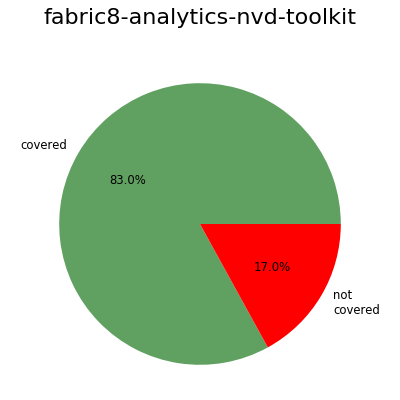
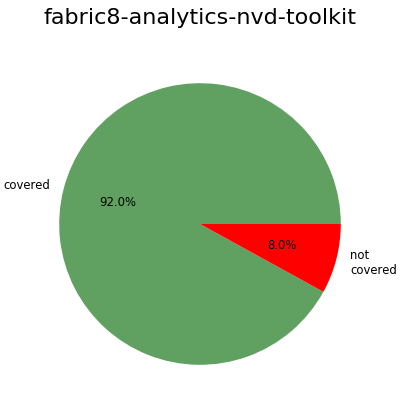
Code coverage report for the current week

diff --git a/dashboard/coverage.html b/dashboard/coverage.html
@@ -29,7 +29,7 @@
                     <tr>
                         <td style="width:36ex"><a href="https://github.com/fabric8-analytics/fabric8-analytics-common">fabric8-analytics-common</a><br />&nbsp;</td>
                         <td class="numeric" style="width:7ex"><a href="repository_fabric8-analytics-common.html">98</a><br />&nbsp;</td>
-                        <td class="numeric" style="width:7ex">11695<br />&nbsp;</td>
+                        <td class="numeric" style="width:7ex">11804<br />&nbsp;</td>
                             <td style="width:7ex">&nbsp;</td>
                             <td style="width:7ex">&nbsp;</td>
                             <td style="width:16ex">&nbsp;</td>
@@ -44,12 +44,12 @@
                         <td class="numeric" style="width:7ex"><a href="repository_fabric8-analytics-server.html">59</a><br />&nbsp;</td>
                         <td class="numeric" style="width:7ex">6031<br />&nbsp;</td>
                             <td class="numeric ok" style="width:7ex">
-                                1898<br />
-                                1901
+                                1901<br />
+                                1898
                             </td>
                             <td class="numeric error" style="width:7ex">
-                                955<br />
-                                958
+                                958<br />
+                                955
                             </td>
                             <td class="numeric" style="width:16ex">
                                 <a href="fabric8-analytics-server.coverage.0.txt">
@@ -67,21 +67,21 @@
                             <td class="boolean ignored">=<br />the same</td>
                             <td style="width:10ex"><a href="fabric8-analytics-server.coverage.diff.txt">diff</a></td>
                         <td class="numeric" style="width:5ex">
-                                50 %
+                                90 %
                         </td>
-                                <td class="boolean ok">yes</td>
+                                <td class="boolean error">no</td>
                     </tr>
                     <tr>
                         <td style="width:36ex"><a href="https://github.com/fabric8-analytics/fabric8-analytics-worker">fabric8-analytics-worker</a><br />&nbsp;</td>
                         <td class="numeric" style="width:7ex"><a href="repository_fabric8-analytics-worker.html">176</a><br />&nbsp;</td>
                         <td class="numeric" style="width:7ex">19290<br />&nbsp;</td>
                             <td class="numeric ok" style="width:7ex">
-                                7156<br />
+                                7197<br />
                                 7197
                             </td>
                             <td class="numeric error" style="width:7ex">
-                                3143<br />
-                                3152
+                                3152<br />
+                                3154
                             </td>
                             <td class="numeric" style="width:16ex">
                                 <a href="fabric8-analytics-worker.coverage.0.txt">
@@ -99,8 +99,9 @@
                             <td class="boolean ignored">=<br />the same</td>
                             <td style="width:10ex"><a href="fabric8-analytics-worker.coverage.diff.txt">diff</a></td>
                         <td class="numeric" style="width:5ex">
+                                90 %
                         </td>
-                            <td style="width:5ex">&nbsp;</td>
+                                <td class="boolean error">no</td>
                     </tr>
                     <tr>
                         <td style="width:36ex"><a href="https://github.com/fabric8-analytics/fabric8-analytics-jobs">fabric8-analytics-jobs</a><br />&nbsp;</td>
@@ -130,17 +131,17 @@
                             <td class="boolean ignored">=<br />the same</td>
                             <td style="width:10ex"><a href="fabric8-analytics-jobs.coverage.diff.txt">diff</a></td>
                         <td class="numeric" style="width:5ex">
-                                25 %
+                                90 %
                         </td>
-                                <td class="boolean ok">yes</td>
+                                <td class="boolean error">no</td>
                     </tr>
                     <tr>
                         <td style="width:36ex"><a href="https://github.com/fabric8-analytics/fabric8-analytics-tagger">fabric8-analytics-tagger</a><br />&nbsp;</td>
                         <td class="numeric" style="width:7ex"><a href="repository_fabric8-analytics-tagger.html">43</a><br />&nbsp;</td>
-                        <td class="numeric" style="width:7ex">4039<br />&nbsp;</td>
+                        <td class="numeric" style="width:7ex">4053<br />&nbsp;</td>
                             <td class="numeric ok" style="width:7ex">
                                 857<br />
-                                857
+                                861
                             </td>
                             <td class="numeric error" style="width:7ex">
                                 34<br />
@@ -162,7 +163,7 @@
                             <td class="boolean ignored">=<br />the same</td>
                             <td style="width:10ex"><a href="fabric8-analytics-tagger.coverage.diff.txt">diff</a></td>
                         <td class="numeric" style="width:5ex">
-                                95 %
+                                90 %
                         </td>
                                 <td class="boolean ok">yes</td>
                     </tr>
@@ -194,9 +195,9 @@
                             <td class="boolean ignored">=<br />the same</td>
                             <td style="width:10ex"><a href="fabric8-analytics-stack-analysis.coverage.diff.txt">diff</a></td>
                         <td class="numeric" style="width:5ex">
-                                50 %
+                                90 %
                         </td>
-                                <td class="boolean ok">yes</td>
+                                <td class="boolean error">no</td>
                     </tr>
                     <tr>
                         <td style="width:36ex"><a href="https://github.com/fabric8-analytics/fabric8-analytics-license-analysis">fabric8-analytics-license-analysis</a><br />&nbsp;</td>
@@ -226,8 +227,9 @@
                             <td class="boolean ignored">=<br />the same</td>
                             <td style="width:10ex"><a href="fabric8-analytics-license-analysis.coverage.diff.txt">diff</a></td>
                         <td class="numeric" style="width:5ex">
+                                90 %
                         </td>
-                            <td style="width:5ex">&nbsp;</td>
+                                <td class="boolean error">no</td>
                     </tr>
                     <tr>
                         <td style="width:36ex"><a href="https://github.com/fabric8-analytics/fabric8-analytics-data-model">fabric8-analytics-data-model</a><br />&nbsp;</td>
@@ -277,7 +279,7 @@
                     <tr>
                         <td style="width:36ex"><a href="https://github.com/fabric8-analytics/fabric8-analytics-api-gateway">fabric8-analytics-api-gateway</a><br />&nbsp;</td>
                         <td class="numeric" style="width:7ex"><a href="repository_fabric8-analytics-api-gateway.html">9</a><br />&nbsp;</td>
-                        <td class="numeric" style="width:7ex">406<br />&nbsp;</td>
+                        <td class="numeric" style="width:7ex">351<br />&nbsp;</td>
                             <td class="numeric ok" style="width:7ex">
                                 182<br />
                                 182
@@ -302,21 +304,41 @@
                             <td class="boolean ignored">=<br />the same</td>
                             <td style="width:10ex"><a href="fabric8-analytics-api-gateway.coverage.diff.txt">diff</a></td>
                         <td class="numeric" style="width:5ex">
+                                90 %
                         </td>
-                            <td style="width:5ex">&nbsp;</td>
+                                <td class="boolean error">no</td>
                     </tr>
                     <tr>
                         <td style="width:36ex"><a href="https://github.com/fabric8-analytics/fabric8-analytics-nvd-toolkit">fabric8-analytics-nvd-toolkit</a><br />&nbsp;</td>
-                        <td class="numeric" style="width:7ex"><a href="repository_fabric8-analytics-nvd-toolkit.html">29</a><br />&nbsp;</td>
-                        <td class="numeric" style="width:7ex">4064<br />&nbsp;</td>
-                            <td style="width:7ex">&nbsp;</td>
-                            <td style="width:7ex">&nbsp;</td>
-                            <td style="width:16ex">&nbsp;</td>
-                            <td class="boolean ignored">?</td>
+                        <td class="numeric" style="width:7ex"><a href="repository_fabric8-analytics-nvd-toolkit.html">30</a><br />&nbsp;</td>
+                        <td class="numeric" style="width:7ex">4063<br />&nbsp;</td>
+                            <td class="numeric ok" style="width:7ex">
+                                1008<br />
+                                1008
+                            </td>
+                            <td class="numeric error" style="width:7ex">
+                                84<br />
+                                84
+                            </td>
+                            <td class="numeric" style="width:16ex">
+                                <a href="fabric8-analytics-nvd-toolkit.coverage.0.txt">
+                                    <div class='progress-bar progress-bar-success progress-bar-striped' style='width:93.2%'>
+                                    92%
+                                    </div>
+                                </a><br />
+                                <div style="margin-bottom:2px"></div>
+                                <a href="fabric8-analytics-nvd-toolkit.coverage.1.txt">
+                                    <div class='progress-bar progress-bar-success progress-bar-striped' style='width:93.2%'>
+                                    92%
+                                    </div>
+                                </a>
+                            </td>
+                            <td class="boolean ignored">=<br />the same</td>
                             <td style="width:10ex"><a href="fabric8-analytics-nvd-toolkit.coverage.diff.txt">diff</a></td>
                         <td class="numeric" style="width:5ex">
+                                90 %
                         </td>
-                            <td style="width:5ex">&nbsp;</td>
+                                <td class="boolean ok">yes</td>
                     </tr>
                     <tr>
                         <td style="width:36ex"><a href="https://github.com/fabric8-analytics/fabric8-analytics-auth">fabric8-analytics-auth</a><br />&nbsp;</td>
@@ -346,25 +368,26 @@
                             <td class="boolean ignored">=<br />the same</td>
                             <td style="width:10ex"><a href="fabric8-analytics-auth.coverage.diff.txt">diff</a></td>
                         <td class="numeric" style="width:5ex">
+                                90 %
                         </td>
-                            <td style="width:5ex">&nbsp;</td>
+                                <td class="boolean error">no</td>
                     </tr>
                     <tr>
                         <td style="width:36ex"><a href="https://github.com/fabric8-analytics/fabric8-gemini-server">fabric8-gemini-server</a><br />&nbsp;</td>
                         <td class="numeric" style="width:7ex"><a href="repository_fabric8-gemini-server.html">10</a><br />&nbsp;</td>
                         <td class="numeric" style="width:7ex">683<br />&nbsp;</td>
                             <td class="numeric ok" style="width:7ex">
-                                279<br />
+                                269<br />
                                 269
                             </td>
                             <td class="numeric error" style="width:7ex">
-                                180<br />
+                                170<br />
                                 170
                             </td>
                             <td class="numeric" style="width:16ex">
                                 <a href="fabric8-gemini-server.coverage.0.txt">
-                                    <div class='progress-bar progress-bar-warning progress-bar-striped' style='width:44.75%'>
-                                    35%
+                                    <div class='progress-bar progress-bar-warning progress-bar-striped' style='width:46.45%'>
+                                    37%
                                     </div>
                                 </a><br />
                                 <div style="margin-bottom:2px"></div>
@@ -374,12 +397,40 @@
                                     </div>
                                 </a>
                             </td>
-                            <td class="boolean ok">&#x2713;<br />better</td>
+                            <td class="boolean ignored">=<br />the same</td>
                             <td style="width:10ex"><a href="fabric8-gemini-server.coverage.diff.txt">diff</a></td>
                         <td class="numeric" style="width:5ex">
-                                50 %
+                                90 %
                         </td>
                                 <td class="boolean error">no</td>
+                    </tr>
+                    <tr>
+                        <td style="width:36ex"><a href="https://github.com/fabric8-analytics/fabric8-analytics-version-comparator">fabric8-analytics-version-comparator</a><br />&nbsp;</td>
+                        <td class="numeric" style="width:7ex"><a href="repository_fabric8-analytics-version-comparator.html">8</a><br />&nbsp;</td>
+                        <td class="numeric" style="width:7ex">747<br />&nbsp;</td>
+                            <td style="width:7ex">&nbsp;</td>
+                            <td style="width:7ex">&nbsp;</td>
+                            <td style="width:16ex">&nbsp;</td>
+                            <td class="boolean ignored">?</td>
+                            <td style="width:10ex"><a href="fabric8-analytics-version-comparator.coverage.diff.txt">diff</a></td>
+                        <td class="numeric" style="width:5ex">
+                                90 %
+                        </td>
+                            <td style="width:5ex">&nbsp;</td>
+                    </tr>
+                    <tr>
+                        <td style="width:36ex"><a href="https://github.com/fabric8-analytics/fabric8-analytics-ingestion">fabric8-analytics-ingestion</a><br />&nbsp;</td>
+                        <td class="numeric" style="width:7ex"><a href="repository_fabric8-analytics-ingestion.html">5</a><br />&nbsp;</td>
+                        <td class="numeric" style="width:7ex">149<br />&nbsp;</td>
+                            <td style="width:7ex">&nbsp;</td>
+                            <td style="width:7ex">&nbsp;</td>
+                            <td style="width:16ex">&nbsp;</td>
+                            <td class="boolean ignored">?</td>
+                            <td style="width:10ex"><a href="fabric8-analytics-ingestion.coverage.diff.txt">diff</a></td>
+                        <td class="numeric" style="width:5ex">
+                                90 %
+                        </td>
+                            <td style="width:5ex">&nbsp;</td>
                     </tr>
                     <tr>
                         <td style="width:36ex"><a href="https://github.com/fabric8-analytics/f8a-server-backbone">f8a-server-backbone</a><br />&nbsp;</td>
@@ -409,7 +460,7 @@
                             <td class="boolean ignored">=<br />the same</td>
                             <td style="width:10ex"><a href="f8a-server-backbone.coverage.diff.txt">diff</a></td>
                         <td class="numeric" style="width:5ex">
-                                50 %
+                                90 %
                         </td>
                                 <td class="boolean error">no</td>
                     </tr>
@@ -417,7 +468,7 @@
             </div>
             <div style='height:100px'></div>
             <div>Author: Pavel Tisnovsky &lt;<a href="mailto:ptisnovs@redhat.com">ptisnovs@redhat.com</a>&gt;</div>
-            <div>Generated on: 2018-05-11 13:19:02</div>
+            <div>Generated on: 2018-05-18 13:47:07</div>
         </div>
     </body>
 </html>
